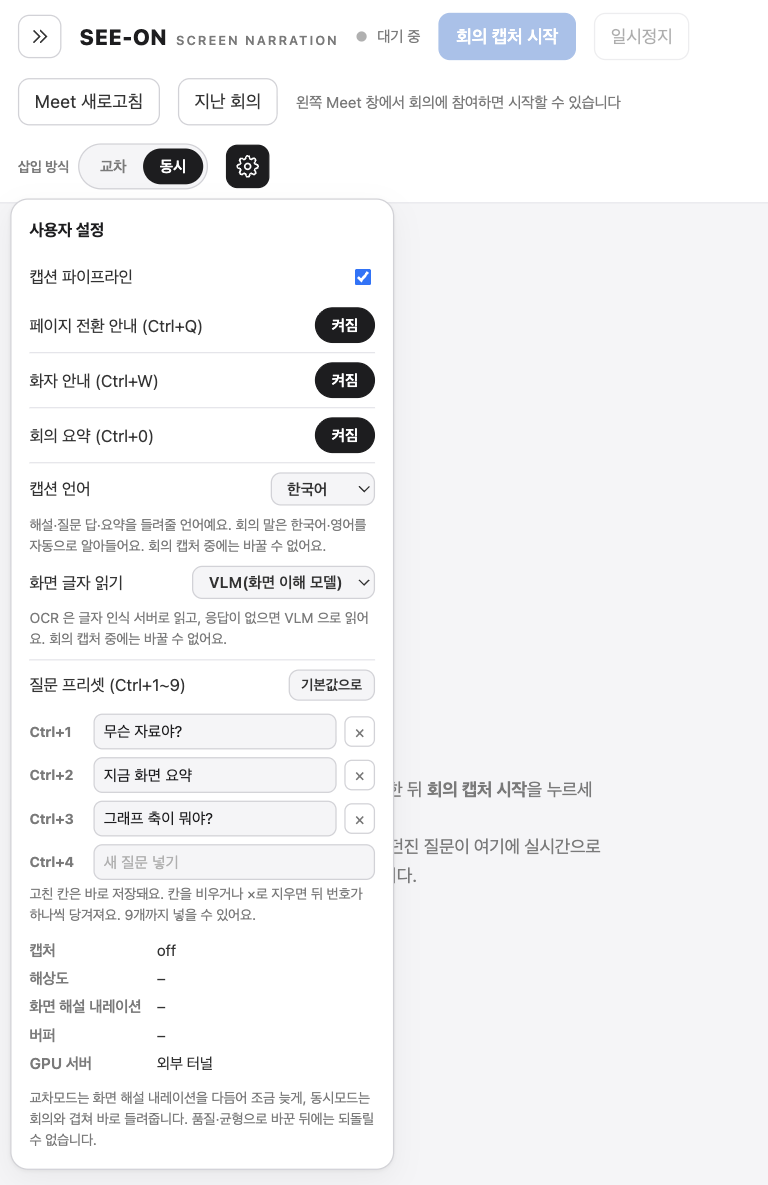
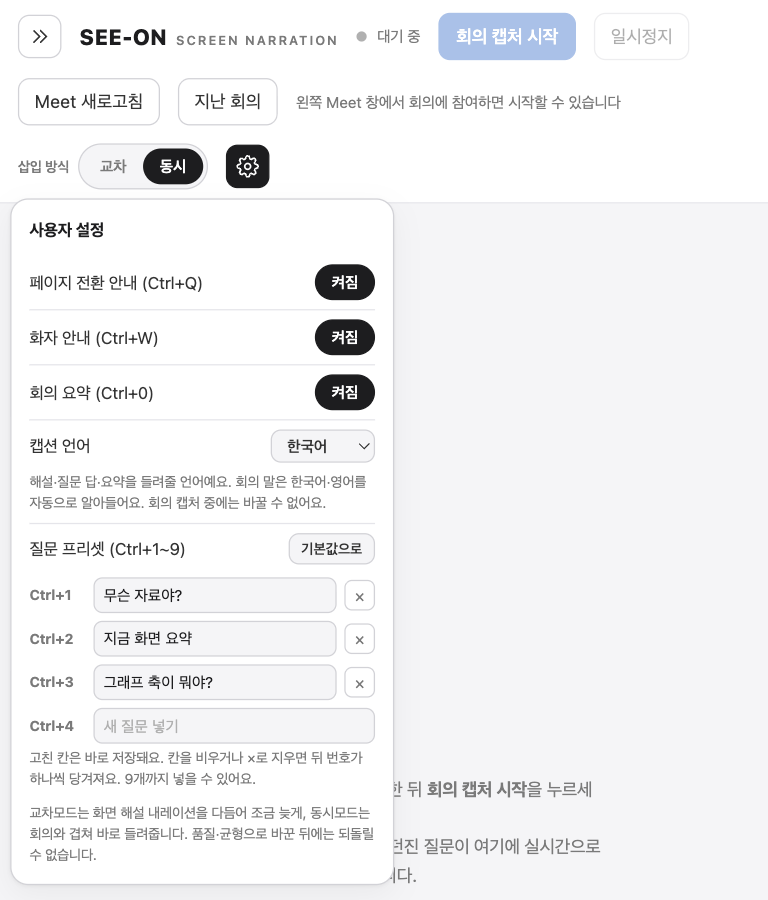
feat(settings): 사용자 설정에는 고를 것만 두고, 점검용 항목은 개발자 모드에서만 보이는 개발자 진단 영역으로 옮긴다
- 캡션 파이프라인·화면 글자 읽기·상태(캡처·해상도·내레이션·버퍼·GPU 서버)를 설정 패널 아래 숨긴
  #devSettingsSection 으로 옮기고, 로고를 5번 눌러 개발자 모드를 열 때 흐름 창과 함께 보인다.
  스크린리더 사용자가 설정을 위에서부터 들을 때 고를 것만 듣게 하고, 실수로 캡션 파이프라인을 꺼 해설이 사라지는 일을 막는다.
- 요소 id 는 그대로라 캡처 상태 표시 등 기존 동작은 같다.
- README 설정·개발자 모드 절을 맞추고 설정 패널 그림(02·12·13)을 새로 찍는다.

diff --git a/src/renderer/app/index.html b/src/renderer/app/index.html
@@ -175,6 +175,8 @@
     .set-select[aria-disabled="true"] { opacity: 0.45; cursor: not-allowed; }
     #captionLanguageNote, #slideTextBackendNote, #questionPresetNote { margin-top: 0; }
     #questionPresetSection { border-top: 1px solid var(--hairline); margin-top: 7px; }
+    #devSettingsSection { border-top: 1px solid var(--hairline-strong); margin-top: 12px; padding-top: 12px; }
+    #devSettingsSection[hidden] { display: none; }
     .set-mini { padding: 3px 9px; border-radius: 8px; border: 1px solid var(--hairline-strong); background: var(--parchment); color: var(--ink-80); font-size: 11px; font-weight: 600; }
     .preset-row { display: flex; align-items: center; gap: 6px; padding: 3px 0; }
     .preset-key { flex: none; width: 44px; font-size: 11px; font-weight: 700; color: var(--ink-48); }
@@ -314,21 +316,12 @@
 
   <div id="settingsPanel" hidden>
     <h4 data-ui-text="settings.title">사용자 설정</h4>
-    <div class="set-row">
-      <span class="label" data-ui-text="settings.captionPipeline">캡션 파이프라인</span>
-      <input type="checkbox" id="pipeChk" checked />
-    </div>
     <div id="featureToggleList" role="group" aria-label="기능 켜기·끄기" data-ui-text-aria-label="settings.featureGroupAriaLabel"></div>
     <div class="set-row">
       <label class="label" for="captionLanguageSelect" data-ui-text="settings.captionLanguage">캡션 언어</label>
       <select id="captionLanguageSelect" class="set-select" aria-describedby="captionLanguageNote"></select>
     </div>
     <div class="set-note" id="captionLanguageNote" data-ui-text="settings.captionLanguageNote">해설·질문 답·요약을 들려줄 언어예요. 회의 말은 한국어·영어를 자동으로 알아들어요. 회의 캡처 중에는 바꿀 수 없어요.</div>
-    <div class="set-row">
-      <label class="label" for="slideTextBackendSelect" data-ui-text="settings.slideTextBackend">화면 글자 읽기</label>
-      <select id="slideTextBackendSelect" class="set-select" aria-describedby="slideTextBackendNote"></select>
-    </div>
-    <div class="set-note" id="slideTextBackendNote" data-ui-text="settings.slideTextBackendNote">OCR 은 글자 인식 서버로 읽고, 응답이 없으면 VLM 으로 읽어요. 회의 캡처 중에는 바꿀 수 없어요.</div>
     <div id="questionPresetSection" role="group" aria-labelledby="questionPresetTitle">
       <div class="set-row">
         <span class="label" id="questionPresetTitle" data-ui-text="settings.questionPresetTitle">질문 프리셋 (Ctrl+1~9)</span>
@@ -337,14 +330,27 @@
       <div id="questionPresetList"></div>
       <div class="set-note" id="questionPresetNote" data-ui-text="settings.questionPresetNote">고친 칸은 바로 저장돼요. 칸을 비우거나 ×로 지우면 뒤 번호가 하나씩 당겨져요. 9개까지 넣을 수 있어요.</div>
     </div>
-    <div class="set-status">
-      <b data-ui-text="status.capture">캡처</b><span id="stCapture">off</span>
-      <b data-ui-text="status.resolution">해상도</b><span id="stRes">–</span>
-      <b data-ui-text="status.narration">화면 해설 내레이션</b><span id="stDelay">–</span>
-      <b data-ui-text="status.buffer">버퍼</b><span id="stBuffer">–</span>
-      <b data-ui-text="status.gpuServer">GPU 서버</b><span id="stGpuTunnel">–</span>
-    </div>
     <div class="set-note" id="modeNote"></div>
+    <!-- 점검용 항목은 개발자 모드(로고 5번)를 열 때만 보인다. 스크린리더 사용자가 설정을 위에서부터 들을 때 고를 것만 듣게 한다. -->
+    <section id="devSettingsSection" role="group" aria-labelledby="devSettingsTitle" hidden>
+      <h4 id="devSettingsTitle" data-ui-text="settings.devSectionTitle">개발자 진단</h4>
+      <div class="set-row">
+        <span class="label" data-ui-text="settings.captionPipeline">캡션 파이프라인</span>
+        <input type="checkbox" id="pipeChk" checked />
+      </div>
+      <div class="set-row">
+        <label class="label" for="slideTextBackendSelect" data-ui-text="settings.slideTextBackend">화면 글자 읽기</label>
+        <select id="slideTextBackendSelect" class="set-select" aria-describedby="slideTextBackendNote"></select>
+      </div>
+      <div class="set-note" id="slideTextBackendNote" data-ui-text="settings.slideTextBackendNote">OCR 은 글자 인식 서버로 읽고, 응답이 없으면 VLM 으로 읽어요. 회의 캡처 중에는 바꿀 수 없어요.</div>
+      <div class="set-status">
+        <b data-ui-text="status.capture">캡처</b><span id="stCapture">off</span>
+        <b data-ui-text="status.resolution">해상도</b><span id="stRes">–</span>
+        <b data-ui-text="status.narration">화면 해설 내레이션</b><span id="stDelay">–</span>
+        <b data-ui-text="status.buffer">버퍼</b><span id="stBuffer">–</span>
+        <b data-ui-text="status.gpuServer">GPU 서버</b><span id="stGpuTunnel">–</span>
+      </div>
+    </section>
   </div>
 
   <div id="prepOverlay" hidden>

diff --git a/src/renderer/app/main.js b/src/renderer/app/main.js
@@ -1642,10 +1642,13 @@ async function showArchiveMeeting({ id }) {
   $('archiveDetailTitle').focus();
 }
 
-// 개발자 모드: 로고를 2초 안에 5번 누르면 이번 회의의 파이프라인 흐름 창(단계별 통과/미통과)을 연다.
+// 개발자 모드: 로고를 2초 안에 5번 누르면 이번 회의의 파이프라인 흐름 창(단계별 통과/미통과)을 열고,
+// 설정 패널에 개발자 진단 영역(캡션 파이프라인·화면 글자 읽기·캡처 상태)을 보인다. 앱을 다시 켜면 다시 숨는다.
 const logoTapCounter = createLogoTapCounter();
 $('brandLogo').addEventListener('click', () => {
-  if (logoTapCounter.tap()) window.seeon.openDevFlow().catch(() => {});
+  if (!logoTapCounter.tap()) return;
+  $('devSettingsSection').hidden = false;
+  window.seeon.openDevFlow().catch(() => {});
 });
 
 $('archiveBtn').addEventListener('click', () => {

diff --git a/src/renderer/core/i18n/ui-text.js b/src/renderer/core/i18n/ui-text.js
@@ -106,6 +106,7 @@ export const UI_TEXT_MAP = {
     'shortcut.macControl': '맥도 Control 키',
 
     'settings.title': '사용자 설정',
+    'settings.devSectionTitle': '개발자 진단',
     'settings.captionPipeline': '캡션 파이프라인',
     'settings.featureGroupAriaLabel': '기능 켜기·끄기',
     'settings.captionLanguage': '캡션 언어',
@@ -335,6 +336,7 @@ export const UI_TEXT_MAP = {
     'shortcut.macControl': 'Control key on Mac too',
 
     'settings.title': 'Settings',
+    'settings.devSectionTitle': 'Developer diagnostics',
     'settings.captionPipeline': 'Caption pipeline',
     'settings.featureGroupAriaLabel': 'Turn features on or off',
     'settings.captionLanguage': 'Caption language',
